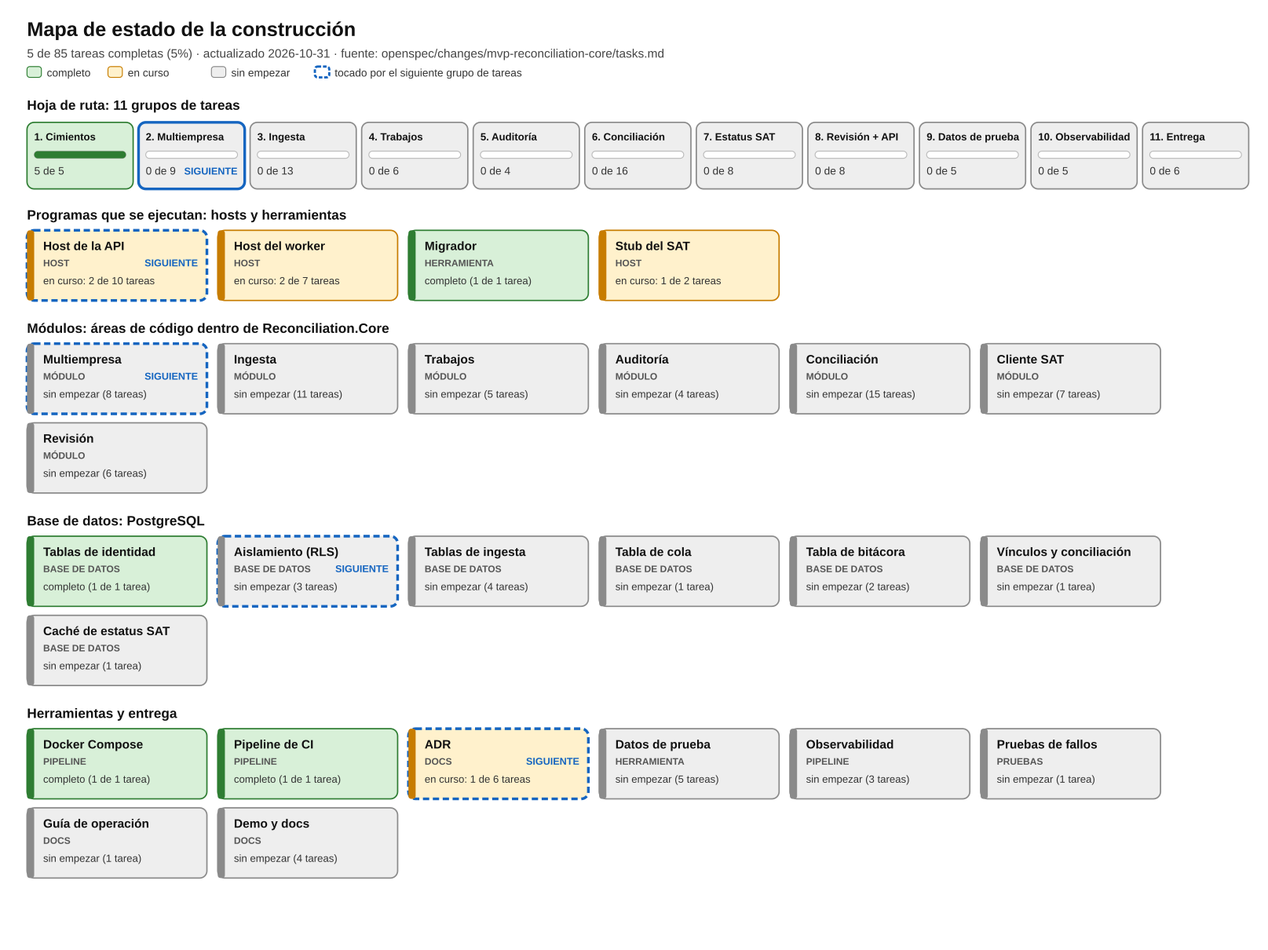
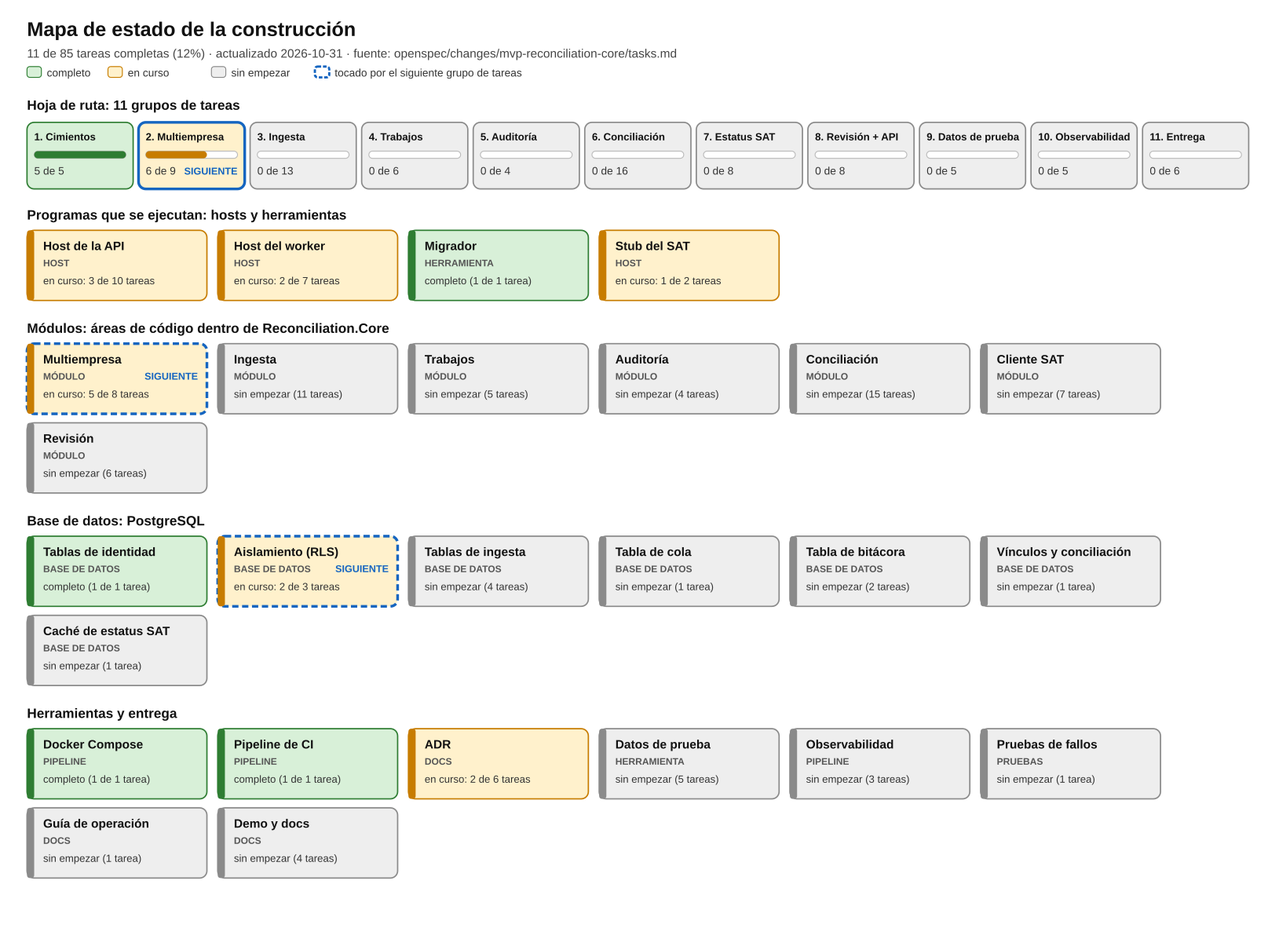
feat: document tenant isolation decisions and PR-2 learning log

diff --git a/docs/BUILD-LOG-ES.md b/docs/BUILD-LOG-ES.md
@@ -12,7 +12,7 @@ Fuente de verdad de los elementos de trabajo: `openspec/changes/mvp-reconciliati
 
 ![Mapa de estado de la construcción](progress/status-map-es.png)
 
-**5 de 85 tareas completas (grupo 1, Cimientos). Siguiente: grupo 2, Multiempresa y acceso.**
+**11 de 85 tareas completas. Grupo 2: 6 de 9; 2.4, 2.6 y 2.9 esperan escenarios de grupos posteriores.**
 Regenera la imagen después de marcar tareas: `python3 tools/progress_diagram.py --lang es`
 (sin `--lang es` genera la versión en inglés).
 
@@ -34,21 +34,77 @@ Regenera la imagen después de marcar tareas: `python3 tools/progress_diagram.py
 | Archivo de solución | Compilación | Agrupa los seis proyectos para que un solo `dotnet build` compile todo | `Reconciliation.slnx` |
 | Reglas de compilación compartidas | Compilación | Todos los proyectos usan la misma configuración: .NET 10, verificación de nulos, las advertencias son errores | `Directory.Build.props`, `.editorconfig`, `global.json` |
 | **Biblioteca Core** | Área de módulos | El código que comparten ambos hosts. Contiene los límites de los siete módulos y el código común de base de datos y salud | `src/Reconciliation.Core` |
-| **Host de la API** | Host | La API web que llamarán los usuarios. Hoy solo responde `GET /health` | `src/Reconciliation.Api` |
+| **Host de la API** | Host | La API web que llamarán los usuarios. Ahora atiende autenticación, empresas, miembros, configuración, archivo, salud y OpenAPI | `src/Reconciliation.Api` |
 | **Host del worker** | Host | Ejecuta trabajos en segundo plano (importaciones, conciliación, consultas al SAT). Hoy arranca, reporta su salud y espera | `src/Reconciliation.Worker` |
 | **Migrador** | Herramienta | Aplica o revierte cambios de la base de datos (`up`, `down`) | `src/Reconciliation.Migrator` |
 | **Stub del SAT** | Host | Una simulación del servicio de estatus del SAT para desarrollar sin cuenta real. Hoy es solo un marcador | `src/Reconciliation.SatStub` |
-| **PostgreSQL 17** | Base de datos | Guarda todos los datos. Primeras tablas: `company`, `app_user`, `membership` | `docker-compose.yml`, migración `M0001` |
+| **PostgreSQL 17** | Base de datos | Guarda todos los datos. Identidad, multiempresa y una `audit_entry` mínima con RLS forzado | `docker-compose.yml`, migración `M0001` |
 | Docker Compose | Pipeline | Arranca base de datos, migrador, API, worker y stub con un solo comando y espera a que todos estén sanos | `docker-compose.yml`, `Dockerfile` |
 | Pipeline de CI | Pipeline | En cada push: revisión de formato, compilación, pruebas, migraciones subir/bajar/subir y arranque completo del sistema | `.github/workflows/ci.yml` |
 | ADR | Docs | Registros breves de las decisiones grandes y de las alternativas descartadas | `docs/adr/` |
 | Requisitos y plan | Docs | BRS, SRS (inglés y español), diagramas y el cambio de OpenSpec que define el trabajo | `docs/`, `openspec/` |
-| Pruebas | Pruebas | 4 pruebas xUnit: la salud responde 200/503 y los errores de configuración son claros | `tests/Reconciliation.Tests` |
+| Pruebas | Pruebas | 45 casos xUnit: 40 aprobados, 5 pendientes explícitos; PostgreSQL real para multiempresa | `tests/Reconciliation.Tests` |
 | Mapa de progreso | Herramienta | Dibuja la imagen de estado a partir de `tasks.md` | `tools/progress_diagram.py` |
 
 ## 3. Registro de pull requests
 
 Primero el más reciente. Cada entrada dice qué cambió, por qué y qué puedes aprender de ello.
+
+### PR-2: Multiempresa y acceso (grupo 2; seis tareas completas y tres pendientes)
+
+**Para qué:** aislar cada empresa desde PostgreSQL, autenticar al usuario y permitir que administradores gestionen
+acceso y configuración. Los identificadores y las credenciales de prueba son sintéticos.
+**Cómo:** cada corte tuvo primero su commit de pruebas rojas y después el de implementación. Testcontainers ejecuta
+el migrador real contra PostgreSQL 17; la aplicación entra como `cfdi_app`, sin superusuario ni BYPASSRLS.
+**Verificado:** `dotnet build` sin advertencias ni errores, `dotnet test --solution Reconciliation.slnx` con 40 casos
+aprobados y 5 omitidos explícitamente, `dotnet format --verify-no-changes`, Compose sano tras compilar y migraciones
+subir/bajar/subir en una base desechable separada. También funcionó revertir hasta cero y volver a aplicar todo.
+
+#### Transacciones y RLS forzado (2.1, 2.2)
+- **Para qué:** olvidar un WHERE no debe revelar ni modificar filas de otra empresa.
+- **Cómo:** `TenantContext.ExecuteAsync` fija la empresa con un parámetro local a la transacción. `company`,
+  `membership` y la `audit_entry` mínima tienen RLS habilitado y forzado. Sin contexto no hay filas visibles y se
+  registra el intento. API y worker usan el rol restringido; el migrador usa el propietario.
+- **Qué aprendí:** `SET LOCAL` termina con la transacción y evita arrastrar contexto al reutilizar conexiones del
+  pool. RLS y la verificación de membresía autenticada resuelven partes distintas; hacen falta ambas.
+
+#### Credenciales y roles por empresa (2.3; 2.4 pendiente)
+- **Para qué:** identificar al usuario y comprobar su rol actual en la empresa elegida.
+- **Cómo:** PasswordHasher de Identity genera hashes PBKDF2 con sal aleatoria. Login emite JWT firmado con caducidad.
+  La política de respaldo exige autenticación; solo salud, OpenAPI y login son anónimos. `X-Company-Id` debe coincidir
+  con la ruta y una membresía. Las políticas consultan PostgreSQL en cada solicitud. Un endpoint exclusivo del host
+  de pruebas verifica la política de contador; la gestión real de miembros verifica permisos de administrador.
+- **Qué aprendí:** no guardar roles por empresa en el token evita permisos desactualizados después de un cambio.
+  WebApplicationFactory permite probar la política sin publicar endpoints ficticios del dominio.
+
+#### Alta, configuración y archivo (2.7, 2.8; 2.9 pendiente)
+- **Para qué:** crear empresas, conservar su identidad y sus registros, y explicar los cambios.
+- **Cómo:** el migrador crea opcionalmente un operador desde `OPERATOR_EMAIL` / `OPERATOR_PASSWORD`. Solo ese operador
+  puede dar de alta empresa y primer administrador. El RFC se valida y un trigger impide cambiarlo. Una cuenta nueva
+  requiere contraseña de 12 caracteres; una existente conserva su contraseña y recibe la misma forma de respuesta.
+  Cambios de configuración guardan valores anteriores/nuevos y actor en la misma transacción. Archivar conserva las
+  filas; no hay rutas DELETE. Denegar INSERT en auditoría demuestra que la configuración se revierte. El primer
+  arranque Compose detectó que el migrador necesitaba la imagen de runtime ASP.NET para PasswordHasher; se corrigió.
+- **Qué aprendí:** acción y auditoría deben compartir transacción. La auditoría mínima depende del grupo 5 para
+  encadenamiento por hash, triggers de rechazo y el resto de su contrato.
+- **Atajo de demo:** enviar la contraseña en el alta simplifica esta demo; producción usaría enlaces de invitación o
+  restablecimiento y gestión de secretos. `.env.example` solo contiene marcadores, no credenciales de operadores.
+
+#### Pruebas de aislamiento y ADR (2.5; 2.6 pendiente)
+- **Para qué:** detectar tablas y rutas nuevas cuyo aislamiento todavía no se ha probado.
+- **Cómo:** `information_schema` descubre tablas de empresa; se exige RLS habilitado/forzado y política. EndpointDataSource
+  descubre rutas; cada ruta protegida debe tener caso exitoso, rechazo anónimo y rechazo entre empresas o de no operador.
+  Se comparan las filas de B antes/después. Quitar deliberadamente `membership_isolation` produjo cuatro fallos, incluido
+  el guardián de políticas; restaurarla devolvió la suite a verde. ADR-003 compara RLS, schema-per-company y
+  database-per-company.
+- **Qué aprendí:** quitar una política causa denegación por defecto; un 403 por sí solo no demuestra que exista la
+  política. Por eso también se verifica la estructura de PostgreSQL.
+
+**Pendientes explícitos:** 2.4, 2.6 y 2.9 siguen sin marcar. Cinco pruebas omitidas conservan los nombres exactos:
+“Viewer cannot decide” y “Different roles” esperan vínculos reales del grupo 8; “Cross-company attempt in the test suite”
+y “Delete attempt” esperan CFDI importados del grupo 3; “Tolerance changed” espera una corrida del grupo 6. Persistencia
+y auditoría de configuración sí se prueban ahora; no se afirma el comportamiento de la corrida futura. Ninguna tarea
+se marca completa por una prueba omitida.
 
 ### PR-1: Cimientos (tareas 1.1 a 1.5), commit `a10c3ab`
 
@@ -154,25 +210,11 @@ terminó con éxito.
   10.0.14) en lugar de silenciar la advertencia.
 - El primer andamiaje fue en TypeScript. Se descartó cuando el stack cambió a C#; nada dependía de él.
 
-## 4. Siguiente pull request: PR-2, Multiempresa y acceso (grupo 2, 9 tareas)
+## 4. Siguiente trabajo: grupo 3, con tres tareas de multiempresa pendientes
 
-**Objetivo:** volver el sistema multiempresa y seguro: los datos de una empresa nunca pueden filtrarse a otra, aun
-si un desarrollador olvida un filtro. Es la base sobre la que se construyen todos los grupos posteriores.
-
-| Tarea | Pieza nueva | Tipo | Por qué se necesita | Aprenderás (enfoque planeado) |
-|---|---|---|---|---|
-| 2.1 | Envoltorio de transacción que fija el contexto de empresa | Módulo (Tenancy) | Cada solicitud y cada trabajo corre en una transacción que le dice a la base de datos para qué empresa actúa | Servicios *scoped*, `NpgsqlTransaction`, middleware de ASP.NET, `set_config` de PostgreSQL |
-| 2.2 | Políticas de seguridad a nivel de fila y un rol de base de datos restringido | Base de datos | La propia base de datos oculta las filas de otras empresas; el rol de la app no debe poder saltarse esa regla (el usuario actual de Compose es superusuario y la saltaría) | Migración `M0002` en SQL: `ENABLE`/`FORCE ROW LEVEL SECURITY`, `CREATE POLICY`, roles |
-| 2.3 | Autenticación: hash de contraseñas y tokens | Módulo + API | Saber quién llama; rechazar solicitudes anónimas | `PasswordHasher`, tokens JWT bearer, `RequireAuthorization()` |
-| 2.4 | Roles por empresa (administrador, contador, consulta) | Módulo | Cada persona puede hacer cosas distintas en cada empresa | Políticas de autorización y *claims* |
-| 2.5 | ADR-003: aislamiento por empresa | Docs | Registra por qué la seguridad a nivel de fila superó a esquema por empresa o base de datos por empresa | Escribir un registro de decisión |
-| 2.6 | Pruebas de aislamiento entre empresas | Pruebas | Hacer fallar la compilación si algún endpoint filtra datos; también si se quita una política | Testcontainers: una PostgreSQL real iniciada por la prueba |
-| 2.7 | Alta de empresa por un operador de la plataforma, RFC inmutable | API + Base de datos | Las empresas necesitan un RFC; solo un operador puede crearlas | Validación, `Results.Created`, respuestas 403 |
-| 2.8 | Configuración de la empresa (tolerancias, regla de fecha límite) con auditoría de cambios | API + Módulo | Los administradores ajustan la conciliación sin cambiar código | Endpoints `PATCH`, verificaciones |
-| 2.9 | Sin eliminación de datos importados; las empresas se archivan | Módulo + Base de datos | Los registros contables deben conservarse | Borrado lógico con `archived_at` |
-
-**Qué mostrará el mapa después:** Multiempresa y Aislamiento por empresa se vuelven verdes, el Host de la API y el
-Migrador avanzan, y los ADR dan un paso más hacia completarse.
+El grupo 3 agrega modelo de dominio e importaciones reales. Al existir esos endpoints se reemplazan las pruebas
+pendientes de aislamiento de facturas y conservación. El grupo 6 reemplaza el escenario configuración/corrida y el
+8 los escenarios de decisiones. El mapa conserva Multiempresa y Aislamiento en progreso hasta verificar esos casos.
 
 ## 5. El resto del camino
 

diff --git a/docs/BUILD-LOG.md b/docs/BUILD-LOG.md
@@ -12,7 +12,7 @@ This log explains them; the status map below is generated from them.
 
 ![Build status map](progress/status-map.png)
 
-**5 of 85 tasks done (group 1, Foundations). Next: group 2, Tenancy and access.**
+**11 of 85 tasks done. Group 2: 6 of 9 complete; 2.4, 2.6 and 2.9 await domain scenarios in later groups.**
 Regenerate the picture after ticking tasks: `python3 tools/progress_diagram.py` (add `--lang es` for the Spanish map).
 
 ### What the types mean
@@ -33,21 +33,76 @@ Regenerate the picture after ticking tasks: `python3 tools/progress_diagram.py` 
 | Solution file | Build | Groups the six projects so one `dotnet build` builds everything | `Reconciliation.slnx` |
 | Shared build rules | Build | Every project gets the same settings: .NET 10, nullable checks on, warnings are errors | `Directory.Build.props`, `.editorconfig`, `global.json` |
 | **Core library** | Module area | The code both hosts share. Holds the seven module boundaries and the common database and health code | `src/Reconciliation.Core` |
-| **API host** | Host | The web API users will call. Today it only answers `GET /health` | `src/Reconciliation.Api` |
+| **API host** | Host | The web API users will call. Now serves authentication, companies, members, settings, archival, health and OpenAPI | `src/Reconciliation.Api` |
 | **Worker host** | Host | Runs background jobs (imports, matching, SAT checks). Today it starts, reports health and idles | `src/Reconciliation.Worker` |
 | **Migrator** | Tool | Applies or reverts database changes (`up`, `down`) | `src/Reconciliation.Migrator` |
 | **SAT stub** | Host | A fake of the SAT status service so development needs no real account. Today only a placeholder | `src/Reconciliation.SatStub` |
-| **PostgreSQL 17** | Database | Stores all data. First tables: `company`, `app_user`, `membership` | `docker-compose.yml`, migration `M0001` |
+| **PostgreSQL 17** | Database | Stores all data. Identity and tenancy tables plus a minimal `audit_entry`, with forced tenant RLS | `docker-compose.yml`, migration `M0001` |
 | Docker Compose | Pipeline | Starts database, migrator, API, worker and stub with one command and waits until all are healthy | `docker-compose.yml`, `Dockerfile` |
 | CI pipeline | Pipeline | On every push: format check, build, tests, migrations up/down/up, and a full stack start | `.github/workflows/ci.yml` |
 | ADRs | Docs | Short records of big decisions and the alternatives rejected | `docs/adr/` |
 | Requirements and plan | Docs | BRS, SRS (English and Spanish), diagrams, and the OpenSpec change that defines the work | `docs/`, `openspec/` |
-| Tests | Tests | 4 xUnit tests: health answers 200/503, configuration errors are clear | `tests/Reconciliation.Tests` |
+| Tests | Tests | 45 xUnit cases: 40 passing, 5 explicitly pending; real PostgreSQL tenancy tests | `tests/Reconciliation.Tests` |
 | Progress map | Tool | Draws the status picture from `tasks.md` | `tools/progress_diagram.py` |
 
 ## 3. Pull request log
 
 Newest first. Each entry says what changed, why, and what you can learn from it.
+
+### PR-2: Tenancy and access (group 2; six tasks complete, three pending)
+
+**Purpose:** isolate each company below the application layer, authenticate callers, and let administrators
+manage company access and settings. All identifiers and credentials used for tests are synthetic.
+**How:** each slice committed its red tests before implementation. Testcontainers runs the actual migrator
+against PostgreSQL 17; the application connects as `cfdi_app`, without superuser or BYPASSRLS.
+**Verified:** `dotnet build` (zero warnings/errors), `dotnet test --solution Reconciliation.slnx` (40 passed,
+5 explicitly skipped), `dotnet format --verify-no-changes`, Compose healthy after build, and migrator up/down/up
+on a separate disposable database. Full rollback to version zero and reapplication also succeeded.
+
+#### Tenant transactions and forced RLS (2.1, 2.2)
+- **Purpose:** a forgotten WHERE must not return or change another company's rows.
+- **How:** `TenantContext.ExecuteAsync` sets a parameterized transaction-local company setting. RLS is enabled
+  and forced on `company`, `membership` and the minimal `audit_entry`. Missing context yields no rows and is
+  logged. API and worker use the restricted login; migrations use the owner.
+- **What I learned:** `SET LOCAL` ends with the transaction, which matters when pooled connections are reused.
+  RLS and authenticated membership checks solve different parts of access control; both are necessary.
+
+#### Credentials and company roles (2.3; 2.4 remains pending)
+- **Purpose:** identify callers and limit each action to the selected company's current role.
+- **How:** Identity PasswordHasher stores salted PBKDF2 credentials; login issues a signed, expiring JWT.
+  A fallback policy requires authentication. Only health, OpenAPI and login are anonymous. `X-Company-Id`
+  must match the route and membership; policies query PostgreSQL per request. A test-only endpoint proves
+  the accountant policy; the real admin-only member-management endpoint proves refusal and allowed writes.
+- **What I learned:** keeping membership roles out of tokens avoids stale permissions after a role change.
+  `WebApplicationFactory` can add a policy probe without shipping placeholder domain endpoints.
+
+#### Company provisioning, settings and archival (2.7, 2.8; 2.9 remains pending)
+- **Purpose:** provision a company safely, preserve identity and records, and explain changes.
+- **How:** the migrator optionally seeds an operator from `OPERATOR_EMAIL` / `OPERATOR_PASSWORD`. An operator
+  creates a company and first administrator; RFC is format-validated and immutable in PostgreSQL. New passwords
+  require 12 characters; existing users keep their password, with the same response shape. Settings changes
+  store previous/new values and the actor in the same transaction. Archival preserves rows; there is no DELETE
+  route. A denied audit insert proves that settings roll back. The migrator image needs the ASP.NET runtime
+  because the seed uses PasswordHasher; the first Compose check exposed and verified that packaging fix.
+- **What I learned:** a transaction is the useful boundary for an action and its audit entry. The minimal audit
+  table depends on group 5 for hash chaining, rejection triggers and the rest of the audit contract.
+- **Demo shortcut:** a password in the creation request keeps this demo small; production would use invite/reset
+  links and managed secrets. `.env.example` contains placeholders, not operator credentials.
+
+#### Isolation regression suite and ADR (2.5; 2.6 remains pending)
+- **Purpose:** make a later table or endpoint fail the checks until its isolation is covered.
+- **How:** `information_schema` discovers tenant tables; the guard requires enabled/forced RLS and a policy.
+  `EndpointDataSource` discovers routes; every protected route needs a successful baseline, anonymous refusal,
+  and cross-company/non-operator checks. Company B's rows are compared before/after the attempts. Deliberately
+  dropping `membership_isolation` produced four failures, including the explicit missing-policy guard; restoring
+  it returned the suite to green. ADR-003 compares RLS, schema-per-company and database-per-company.
+- **What I learned:** dropping a policy causes default-deny rather than a leak, so endpoint refusal alone cannot
+  prove a policy is present; the structural policy guard is essential.
+
+**Explicitly pending:** tasks 2.4, 2.6 and 2.9 stay unticked. Five skipped tests retain the exact scenario names:
+“Viewer cannot decide” and “Different roles” need real links in group 8; “Cross-company attempt in the test suite”
+and “Delete attempt” need imported CFDI in group 3; “Tolerance changed” needs a reconciliation run in group 6.
+Persistence/audit of settings is verified now, but the future run behavior is not claimed. No task is ticked on a skip.
 
 ### PR-1: Foundations (tasks 1.1 to 1.5), commit `a10c3ab`
 
@@ -137,25 +192,11 @@ up/down/up on a real database, and the GitHub Actions run `41122200072` succeede
   fix was to pin a patched version (`System.Security.Cryptography.Pkcs` 10.0.14) instead of silencing the warning.
 - The first scaffold was TypeScript. It was discarded when the stack changed to C#; nothing depended on it.
 
-## 4. Next pull request: PR-2, Tenancy and access (group 2, 9 tasks)
+## 4. Next work: group 3, with three tenancy tasks still pending
 
-**Goal:** make the system multi-company and safe: a company's data can never leak to another company, even if a
-developer forgets a filter. This is the foundation every later group builds on.
-
-| Task | New piece | Type | Why it is needed | You will learn (planned approach) |
-|---|---|---|---|---|
-| 2.1 | Transaction wrapper that sets the company context | Module (Tenancy) | Every request and job runs in one transaction that tells the database which company it acts for | Scoped services, `NpgsqlTransaction`, ASP.NET middleware, PostgreSQL `set_config` |
-| 2.2 | Row-level security policies and a restricted database role | Database | The database itself hides other companies' rows; the app's role must not be able to bypass it (the current Compose user is a superuser, which would bypass it) | Migration `M0002` in SQL: `ENABLE`/`FORCE ROW LEVEL SECURITY`, `CREATE POLICY`, roles |
-| 2.3 | Authentication: password hashing and tokens | Module + API | Know who is calling; refuse anonymous requests | `PasswordHasher`, JWT bearer tokens, `RequireAuthorization()` |
-| 2.4 | Roles per company (administrator, accountant, viewer) | Module | Different people may do different things in each company | Authorization policies and claims |
-| 2.5 | ADR-003: tenant isolation | Docs | Records why row-level security beat schema-per-company or database-per-company | Writing a decision record |
-| 2.6 | Cross-company isolation tests | Tests | Fail the build if any endpoint leaks data; also fail if a policy is removed | Testcontainers: a real PostgreSQL started by the test |
-| 2.7 | Company creation by a platform operator, immutable RFC | API + Database | Companies need an RFC; only an operator may create them | Validation, `Results.Created`, 403 responses |
-| 2.8 | Company settings (tolerances, due-date rule) with audit of changes | API + Module | Administrators tune matching without code changes | `PATCH` endpoints, optimistic checks |
-| 2.9 | No deletion of imported data; archive companies | Module + Database | Accounting records must be kept | Soft delete with `archived_at` |
-
-**What the map will show afterwards:** Tenancy and Tenant isolation turn green, API host and Migrator gain
-progress, and ADRs move one step closer to done.
+Group 3 adds the domain model and real imports. Replace the pending invoice-isolation and retention tests when
+those endpoints exist. Group 6 replaces the settings/run scenario; group 8 replaces the link-decision scenarios.
+The generated map intentionally keeps Tenancy and Tenant isolation in progress until those checks are real.
 
 ## 5. The rest of the road
 

diff --git a/docs/adr/ADR-003-tenant-isolation-rls.md b/docs/adr/ADR-003-tenant-isolation-rls.md
@@ -1,0 +1,74 @@
+# ADR-003: Tenant isolation with PostgreSQL row-level security
+
+Status: accepted.
+
+## Context
+
+Several companies share one installation. A missing company filter in SQL must not expose another company's
+rows. The demo uses PostgreSQL 17, explicit SQL through Npgsql/Dapper, one API and a separate worker.
+Authentication identifies a user; membership assigns that user a different role in each company.
+
+## Decision
+
+Use a shared schema with row-level security (RLS). `company` is scoped by its `id`; every other tenant table
+carries `company_id`. Global identity (`app_user`) is outside tenant data. Only login, operator checks and
+account provisioning access that identity store; there is no public user-list endpoint.
+
+- `cfdi_app` is separate from the migration owner, without superuser or BYPASSRLS. The API and worker connect
+  as this restricted role. Migrations run with the privileged owner connection.
+- Every tenant table enables and uses `FORCE ROW LEVEL SECURITY`, with both `USING` and `WITH CHECK` matching
+  the current company. Policies apply to reads, inserts and updates. No application DELETE privilege is granted.
+- `TenantContext.ExecuteAsync` opens a transaction and calls parameterized `set_config('app.company_id', value,
+  true)`, equivalent to `SET LOCAL`. Commit, rollback and disposal discard that context before connection reuse.
+  Absent context yields no visible rows and the wrapper logs the attempt. Jobs will use the same wrapper.
+- Each company request supplies `X-Company-Id`. Authorization checks the authenticated user's current membership
+  in PostgreSQL and requires the route's company id to agree with the header. Roles are evaluated per request,
+  rather than copied into a token that becomes stale when a membership changes.
+- The isolation suite discovers tenant tables through `information_schema` and verifies enabled/forced RLS plus
+  policies. It discovers routes through `EndpointDataSource`, verifies authentication and requires a successful
+  baseline and cross-company case for every data route. New tables/routes fail these guards until covered.
+
+RLS protects against omitted SQL filters. It does not protect against a compromised application that deliberately
+selects arbitrary company contexts, a privileged database administrator, or SQL injection. Parameterized SQL,
+authenticated membership checks and keeping owner credentials out of runtime hosts remain necessary.
+
+## Alternatives compared
+
+| Option | Benefit | Cost and reason rejected for this demo |
+|---|---|---|
+| Shared schema with row-level security | One migration path, one connection pool; the database enforces a missing-filter boundary | Context and permissions must be correct; policies need tests on every new table |
+| schema-per-company | Separate table namespaces; easier per-company logical export | Each migration must reach every schema; search paths and connection pooling add routing hazards |
+| database-per-company | Stronger operational separation, independent backup/restore and scaling | Database creation, migrations, pools and monitoring multiply; too costly for this local multi-company demo |
+| Application filters alone | Least database configuration | A forgotten WHERE leaks data, so it fails the requirement |
+
+Reconsider database-per-company when a customer needs independent recovery, stronger operational separation or
+resource isolation. Schema-per-company does not remove the need to validate which company the caller may select.
+
+## Provisioning and operation
+
+The migrator's optional `OPERATOR_EMAIL` / `OPERATOR_PASSWORD` seed inserts an operator outside company memberships.
+It does not overwrite existing passwords or promote an existing non-operator. `APP_DB_PASSWORD` configures the
+application role's login; `Jwt__SigningKey` configures the API's token signing key. `.env.example` contains only
+placeholders. Compose's explicitly synthetic defaults are for local demonstration; replace them for any shared use.
+
+`POST /companies` accepts `rfc`, `name`, `adminEmail`, `adminPassword`. A new administrator's password must have at
+least 12 characters and is stored with Identity's salted PBKDF2 PasswordHasher. Existing users keep their password;
+only a membership is attached, and the response shape is identical. Password-in-request is a demo shortcut:
+production would use invite/reset links, secret management and a managed identity provider or equivalent controls.
+
+RFC format is checked in the API and database, and a trigger prevents later changes. Settings and archive actions
+are audited in the same transaction as the action. The minimal audit table has tenant RLS and SELECT/INSERT
+application privileges; group 5 adds rejection triggers, hash chaining, verification and the broader audit contract.
+The migration down path removes this minimal table and its entries; use rollback on disposable development data,
+or back up before reverting a populated installation. The shared database role intentionally survives rollback.
+
+## Verification and remaining work
+
+Testcontainers runs the real migrations against PostgreSQL. Tests prove absent-context reads, unfiltered reads,
+write refusal, role restrictions, pooled connection cleanup, credential handling and transactional audit rollback.
+Deliberately dropping `membership_isolation` made the suite fail; restoring the policy returned it to green.
+
+Tasks 2.4, 2.6 and 2.9 remain open. Five tests retain the exact spec scenario names with explicit pending reasons:
+real invoice isolation and imported-CFDI retention (group 3), settings used by the next run (group 6), and real
+link decisions with viewer/different-role behavior (group 8). The accountant policy probe lives only in the test
+host. No placeholder invoice, link or reconciliation endpoints ship with this change.

diff --git a/README.md b/README.md
@@ -39,19 +39,42 @@ Install the .NET 10 SDK (Fedora: `sudo dnf install dotnet-sdk-10.0`) and start a
 (`docker compose up -d postgres`).
 
 ```bash
+# Owner connection is only for migrations. These credentials are synthetic local defaults.
 export ConnectionStrings__Default="Host=localhost;Port=5432;Username=cfdi;Password=cfdi;Database=cfdi"
+export APP_DB_PASSWORD="synthetic-local-app-password"
+# Optional: set OPERATOR_EMAIL and OPERATOR_PASSWORD before migrating to create the first operator.
 dotnet build                                             # warnings are errors
 dotnet format --verify-no-changes                        # style check
-dotnet test
+dotnet test --solution Reconciliation.slnx
 dotnet run --project src/Reconciliation.Migrator -- up   # or `down` to revert one migration
+export ConnectionStrings__Default="Host=localhost;Port=5432;Username=cfdi_app;Password=$APP_DB_PASSWORD;Database=cfdi"
+export Jwt__SigningKey="synthetic-local-signing-key-at-least-32-bytes"
 dotnet run --project src/Reconciliation.Api
 ```
 
 No SDK on the machine? Run any command inside the official image, for example:
 
 ```bash
-docker run --rm -v "$PWD":/src -w /src mcr.microsoft.com/dotnet/sdk:10.0 dotnet test
+docker run --rm --network host -e TESTCONTAINERS_HOST_OVERRIDE=127.0.0.1 \
+  -v /var/run/docker.sock:/var/run/docker.sock -v "$PWD:$PWD" -w "$PWD" \
+  mcr.microsoft.com/dotnet/sdk:10.0 dotnet test --solution Reconciliation.slnx --solution Reconciliation.slnx
 ```
+
+## Tenancy API
+
+`POST /auth/tokens` accepts `{email, password}` and returns `{accessToken}`. Send that token as
+`Authorization: Bearer <token>` and choose the company with `X-Company-Id`. The header must match the route id
+and a current membership. Health and `/openapi.json` remain anonymous.
+
+A bootstrapped platform operator can `POST /companies` with `{rfc, name, adminEmail, adminPassword}`. The password
+must have 12 characters for a new account; an existing account keeps its password. Any member can read
+`GET /companies/{id}`, `/companies/{id}/members`, and `/companies/{id}/settings`. Administrators can post a
+`{userId, role}` to the members route, patch settings, and `POST /companies/{id}/archive`. There are no DELETE routes.
+
+The initial audit table records company creation, settings and archival atomically. Group 5 adds the full audit
+contract. Five domain-dependent tenancy scenarios remain explicitly skipped; tasks 2.4, 2.6 and 2.9 stay open.
+Compose uses synthetic local credentials; replace them and use invite/reset links for a production deployment.
+See [ADR-003](docs/adr/ADR-003-tenant-isolation-rls.md).
 
 ## Decisions
 

diff --git a/openspec/changes/mvp-reconciliation-core/tasks.md b/openspec/changes/mvp-reconciliation-core/tasks.md
@@ -13,7 +13,7 @@
 - [x] 2.3 Implement authentication (slow salted password hashing, token issuance) and verify an anonymous request to a data endpoint is refused
 - [ ] 2.4 Implement roles (administrator, accountant, viewer) and per-company memberships, and verify the role scenarios of the tenancy spec pass
   pending: Viewer cannot decide; Different roles (real link decisions) -> group 8.
-- [ ] 2.5 Write ADR-003 (tenant isolation with row-level security) and verify it compares schema-per-company and database-per-company
+- [x] 2.5 Write ADR-003 (tenant isolation with row-level security) and verify it compares schema-per-company and database-per-company
 - [ ] 2.6 Add the cross-company isolation test suite over every data endpoint and verify it fails when a policy is deliberately removed
   pending: Cross-company attempt in the test suite (real invoice read and future data endpoints) -> groups 3 and 8.
 - [x] 2.7 Implement company creation by a platform operator with a validated, immutable RFC, and verify the operator and non-operator scenarios
